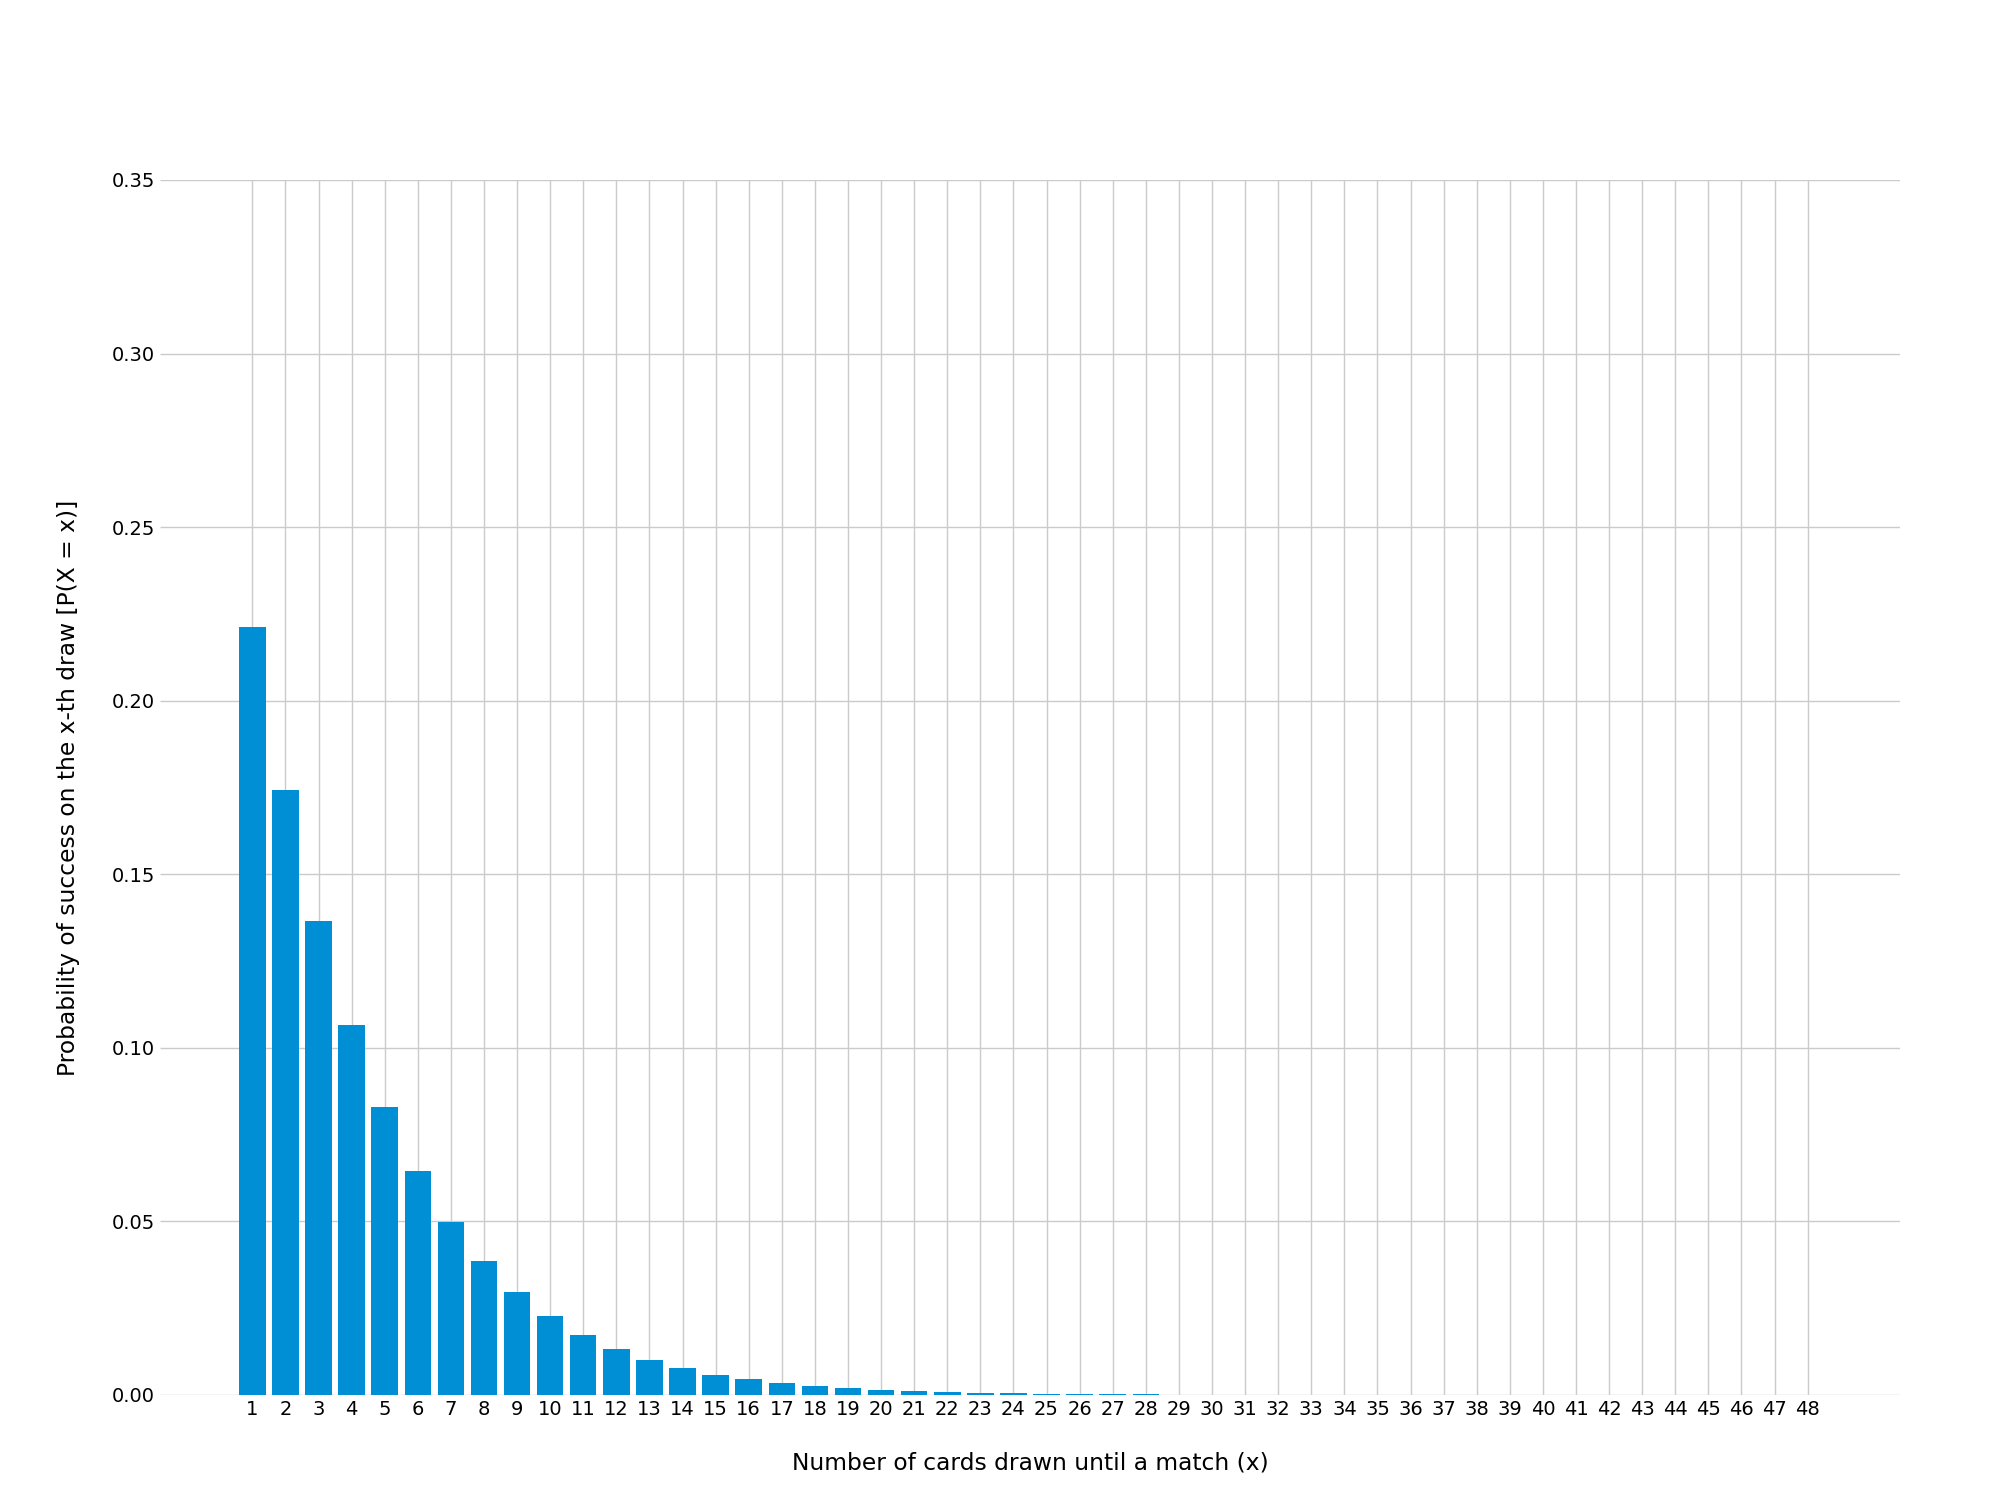
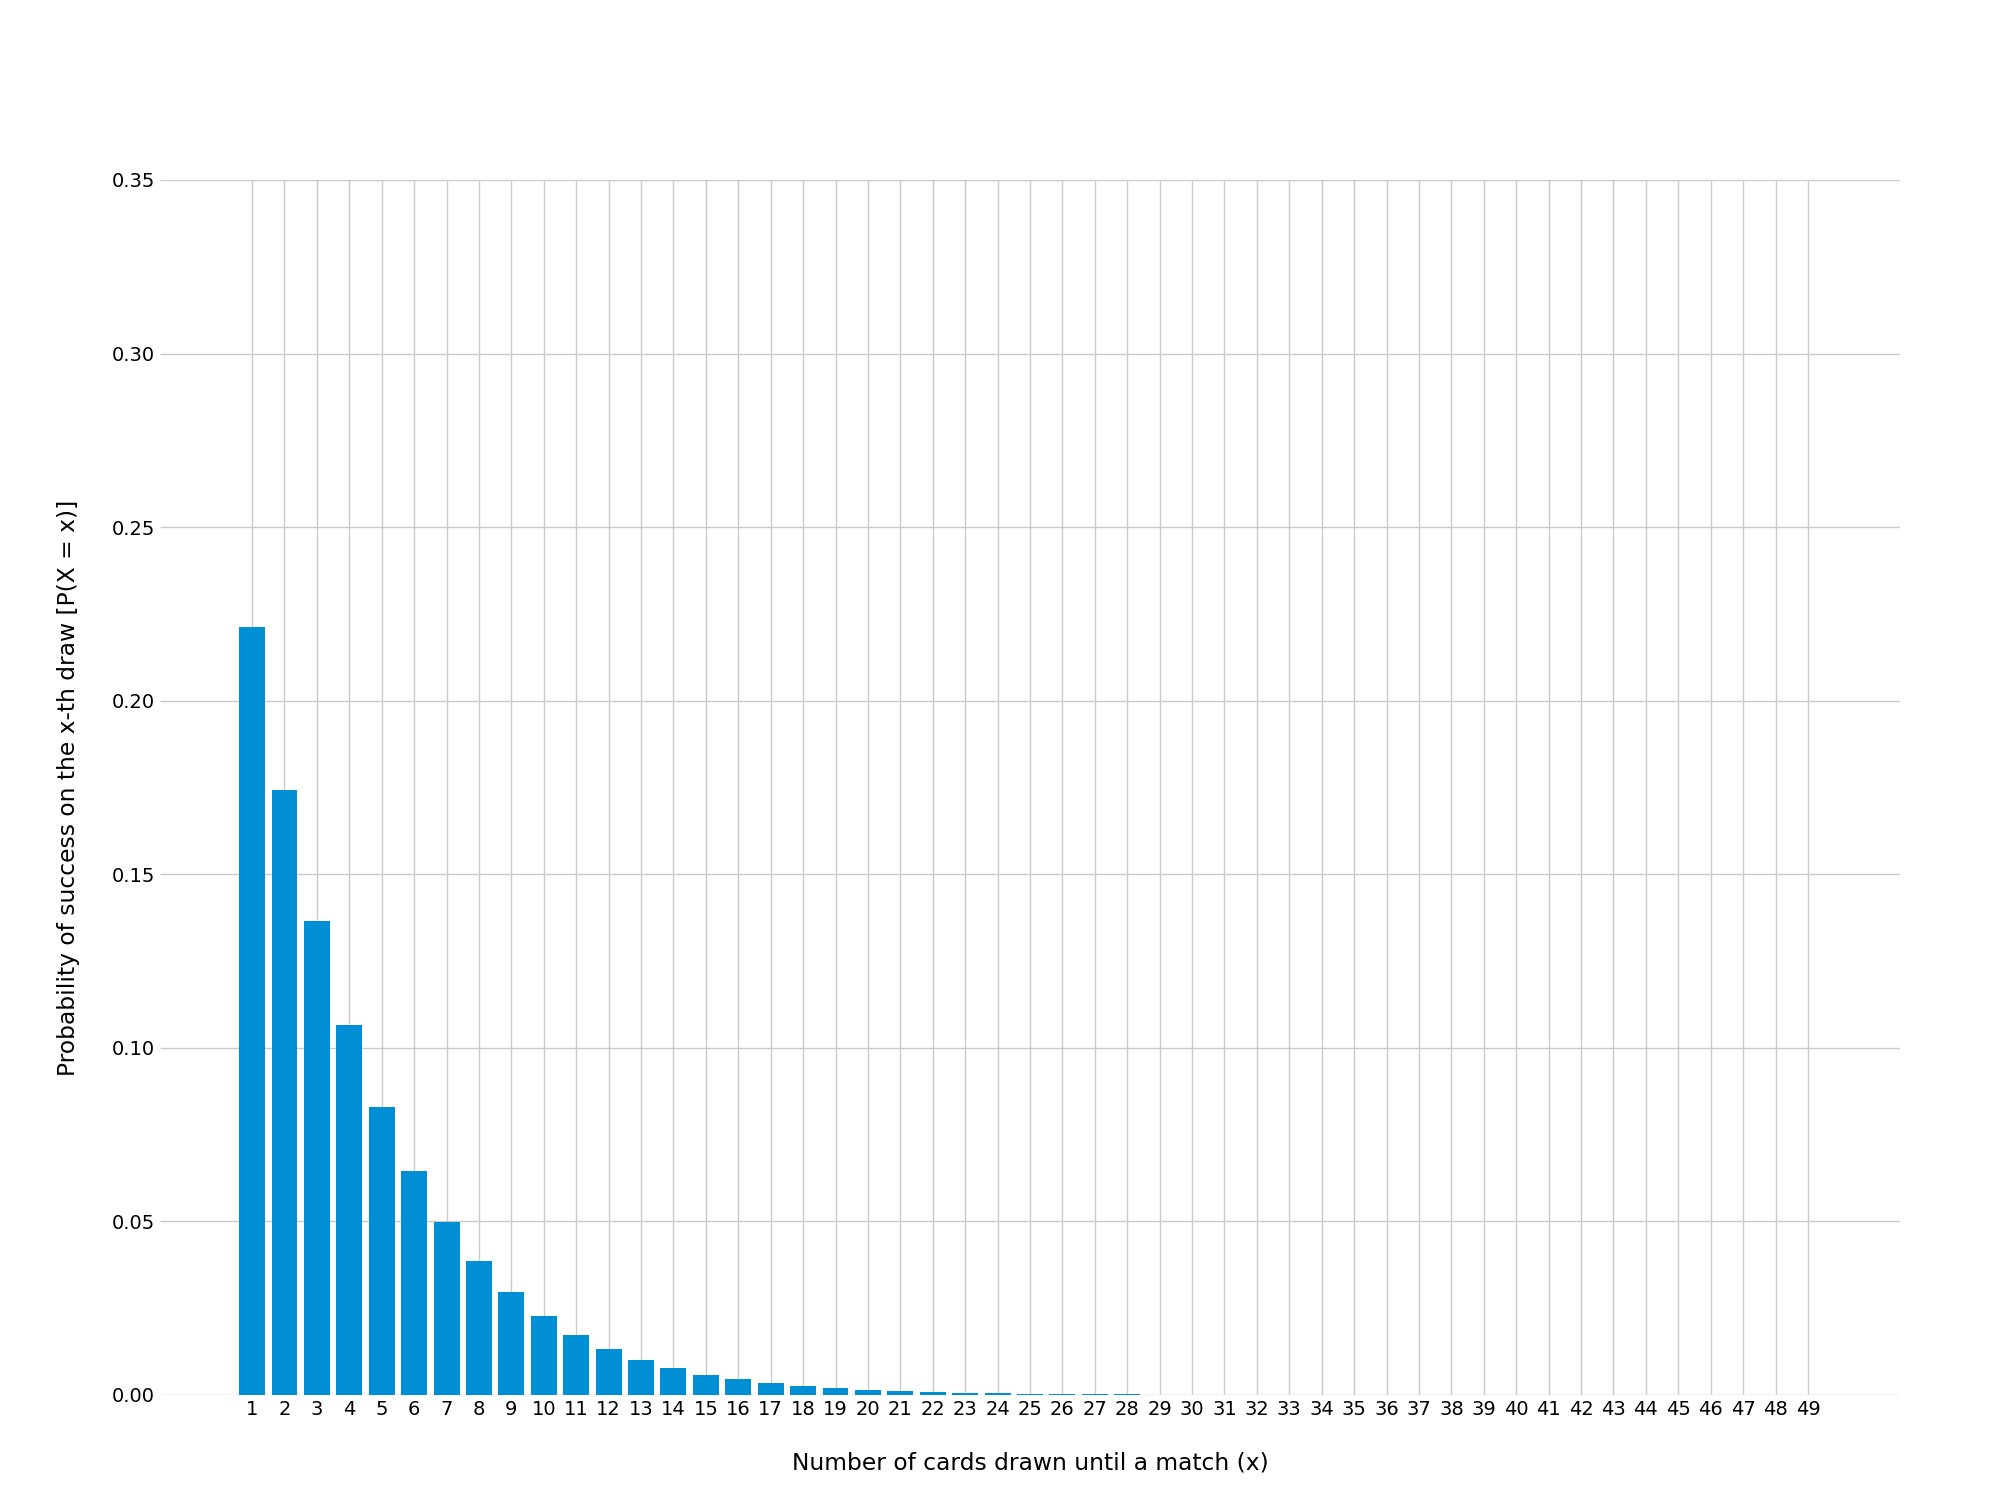
fixed stupid edge case of impossibility

Changed region(s): [[0.155, 0.7053, 0.899, 0.9507]]

diff --git a/gen_experimental.py b/gen_experimental.py
@@ -1,3 +1,4 @@
+from typing import Literal
 import random
 
 from matplotlib import pyplot as plt
@@ -11,21 +12,20 @@ def draw_card(cards: list[int]) -> int:
 def draw_hand(cards: list[int], hand_size: int) -> set[int]:
     return {draw_card(cards) for _ in range(hand_size)}
 
-def experimental(iterations: int, *, hand_size: int) -> dict[int, float]:
-    distribution = {i: 0 for i in range(1, 52 - hand_size + 1)}
+def experimental(iterations: int, *, hand_size: Literal[4, 6]) -> dict[int, float]:
+    distribution = {i: 0 for i in range(1, 52 - hand_size + (hand_size == 4) + 1)}
 
     for _ in tqdm(range(iterations), desc=f'Running experimental simulation [{hand_size = }]'):
         cards = list(range(1, 14)) * 4
         hand = draw_hand(cards, hand_size)
 
-        count = 0
+        count = 1
         while draw_card(cards) not in hand:
             count += 1
 
-            if not cards:
+            if not cards and hand_size == 4:
+                count = 49
                 break
-        else:
-            count += 1
 
         distribution[count] += 1 / iterations
 

diff --git a/gen_theoretical.py b/gen_theoretical.py
@@ -1,11 +1,15 @@
 from typing import Callable, Literal
-from math import prod
+from math import prod, comb
 
 def prod_f(x: int, f: Callable[[int], int]) -> float:
     return prod(f(k) for k in range(1, x))
 
 def P_4(x: int) -> float:
     """Probability function for drawing 4 cards"""
+    if x == 49:
+        # case where the hand is 4 of a kind (impossible to draw a match)
+        return (comb(13, 1) * comb(4, 4)) / comb(52, 4)
+
     return (96 * (
         8 * prod_f(x, lambda k: 45 - k)
         + 528 * prod_f(x, lambda k: 41 - k)
@@ -38,5 +42,8 @@ def theoretical(*, hand_size: Literal[4, 6]) -> dict[int, float]:
     """Generates the theoretical distribution"""
     return {
         x: P_4(x) if hand_size == 4 else P_6(x)
-        for x in range(1, 52 - hand_size + 1)
+        for x in range(1, 52 - hand_size + (hand_size == 4) + 1)
     }
+
+assert sum(P_4(x) for x in range(1, 52 - 4 + 2)) == 1
+assert sum(P_6(x) for x in range(1, 52 - 6 + 1)) == 1

diff --git a/generate.py b/generate.py
@@ -53,7 +53,7 @@ def simulate(hand_size: Literal[4, 6], *, iterations: int | None = None) -> None
     plot_distribution(theo, hand_size, experimental=False)
 
 if __name__ == '__main__':
-    ITERATIONS = 10_000_000
+    ITERATIONS = 20_000_000
 
     simulate(4, iterations=ITERATIONS)
-    simulate(6, iterations=ITERATIONS)
+    #simulate(6, iterations=ITERATIONS)

diff --git a/README.md b/README.md
@@ -3,6 +3,8 @@
 
 Probability simulation code for my game (a project in the `MDM4U` course)
 
+The full report can be found at the following [link](https://docs.google.com/document/d/1sJhQT98JEe-uhEOGd9mIl9UghsmIM7cJ4kFIG4UnCPA/edit?usp=sharing)
+
 Includes:
 
 - Theoretical probabilities
